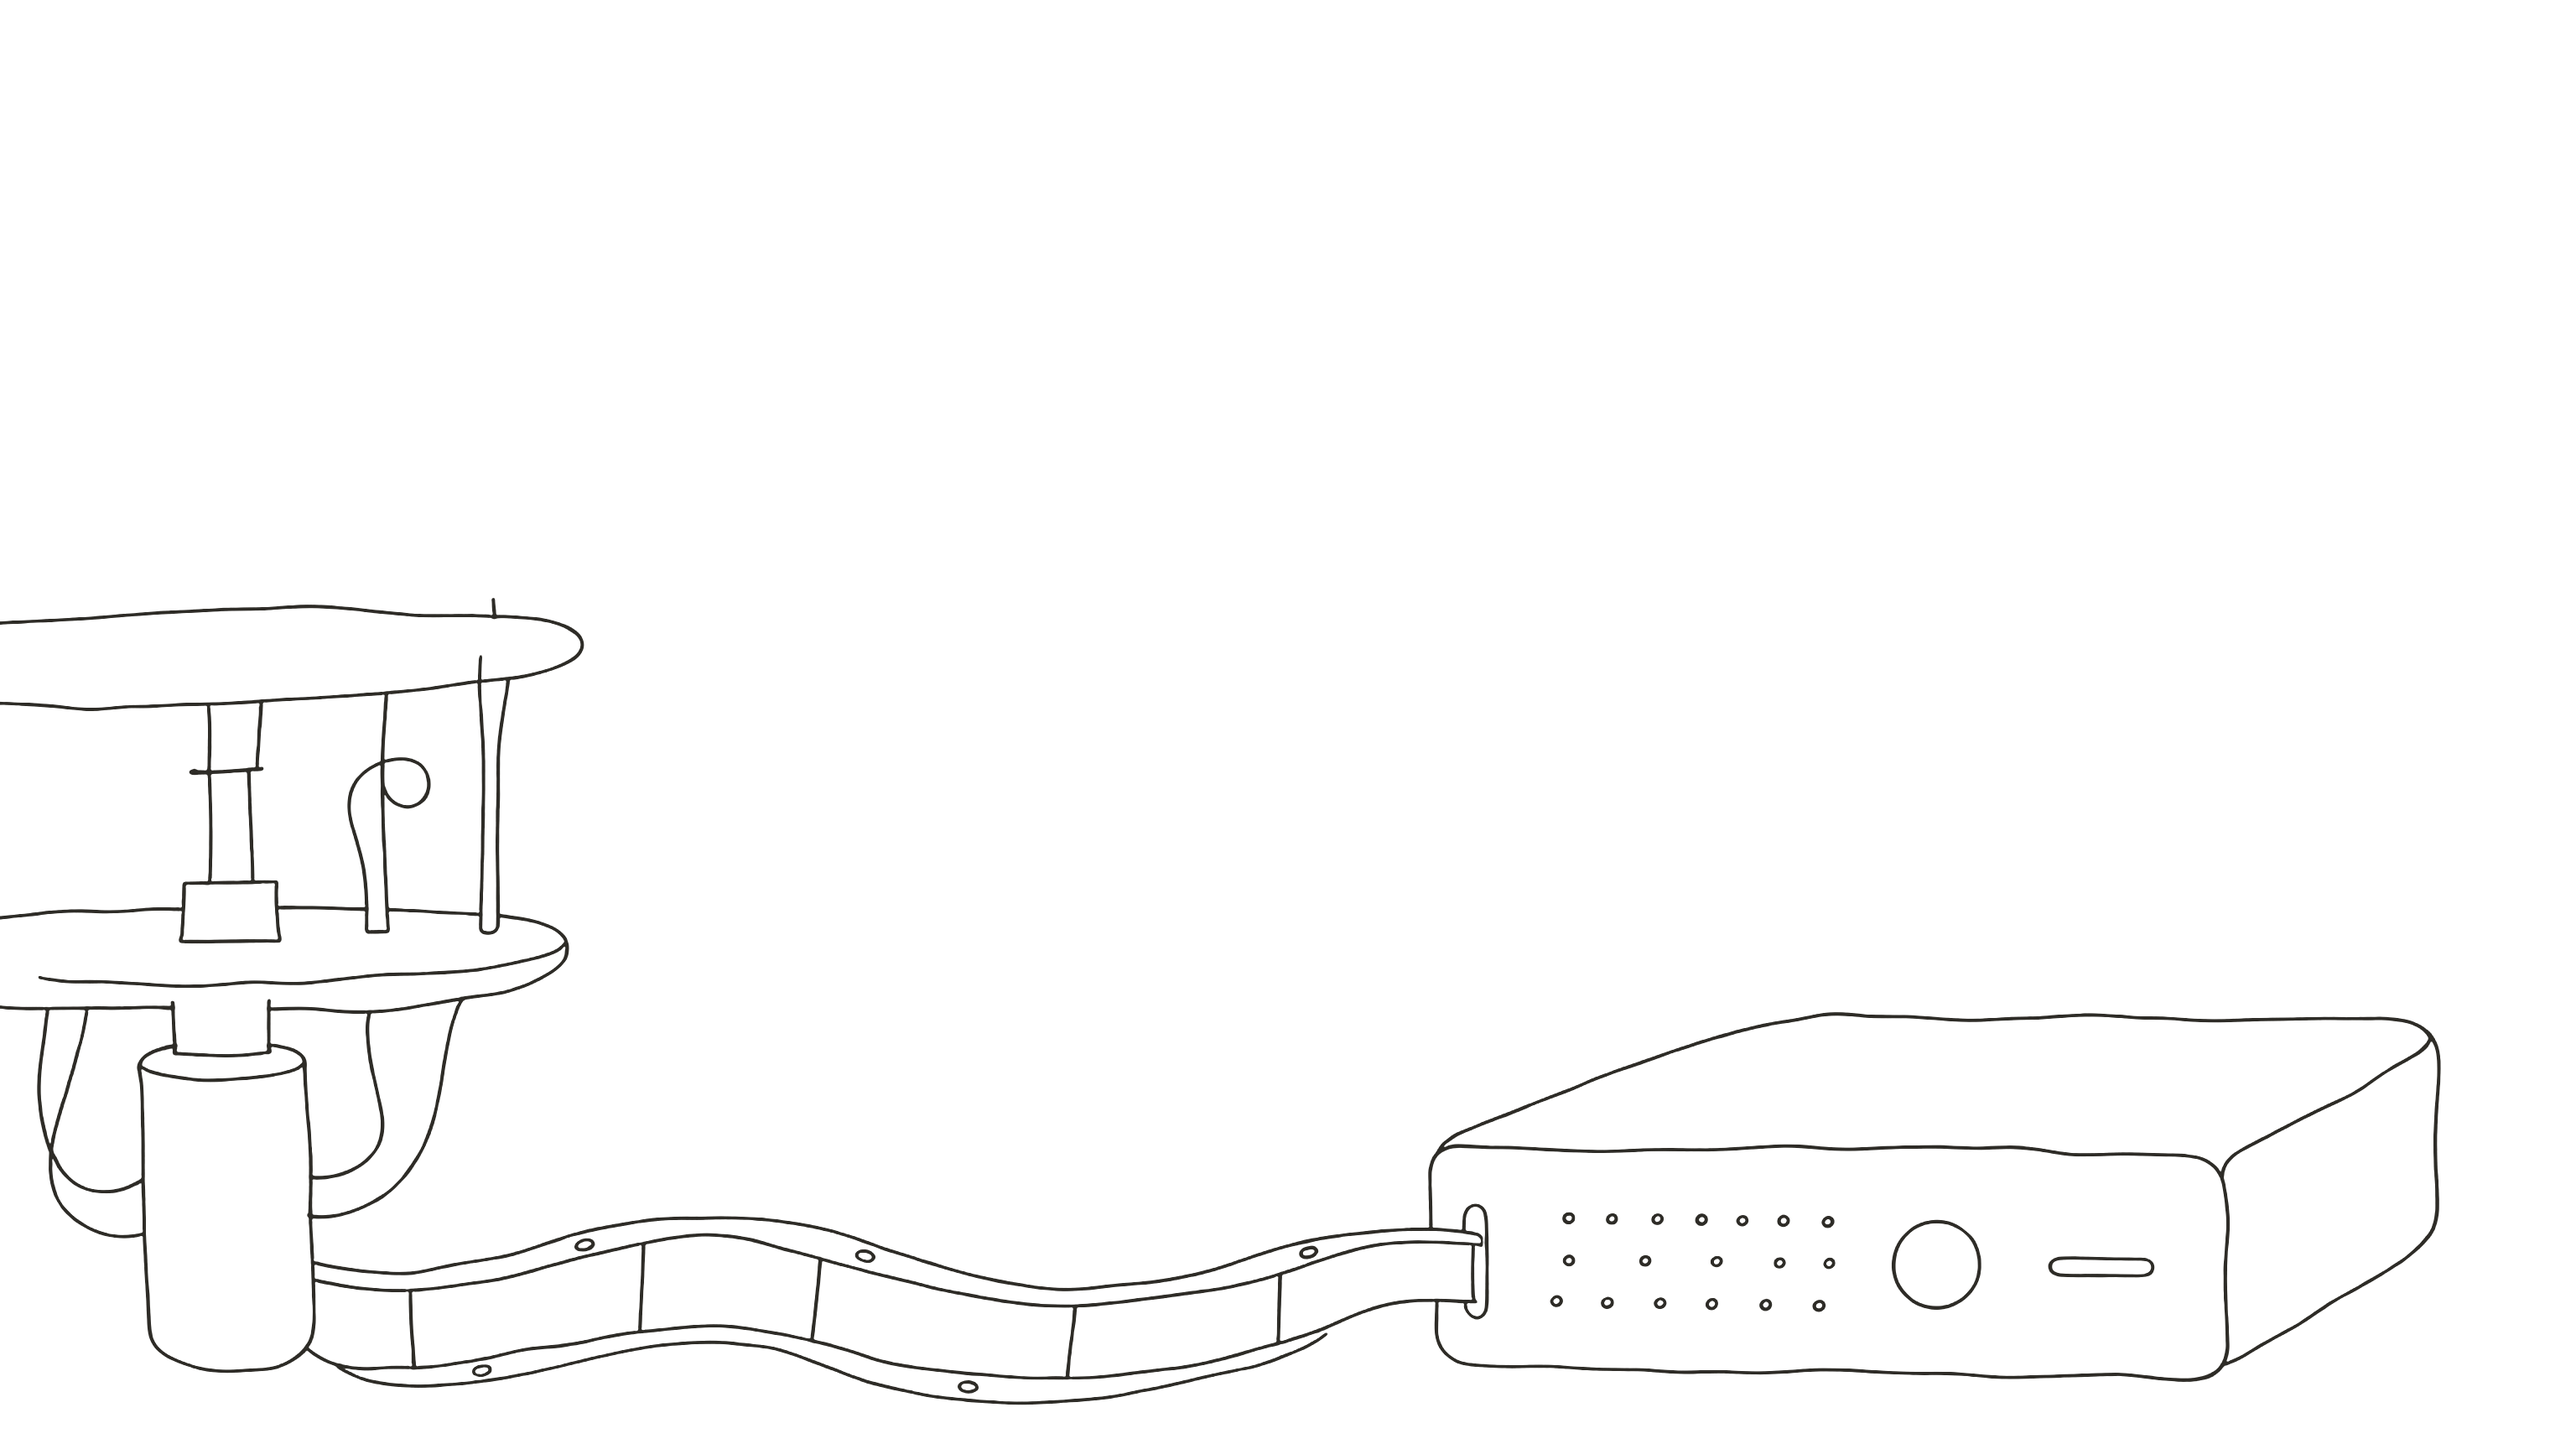
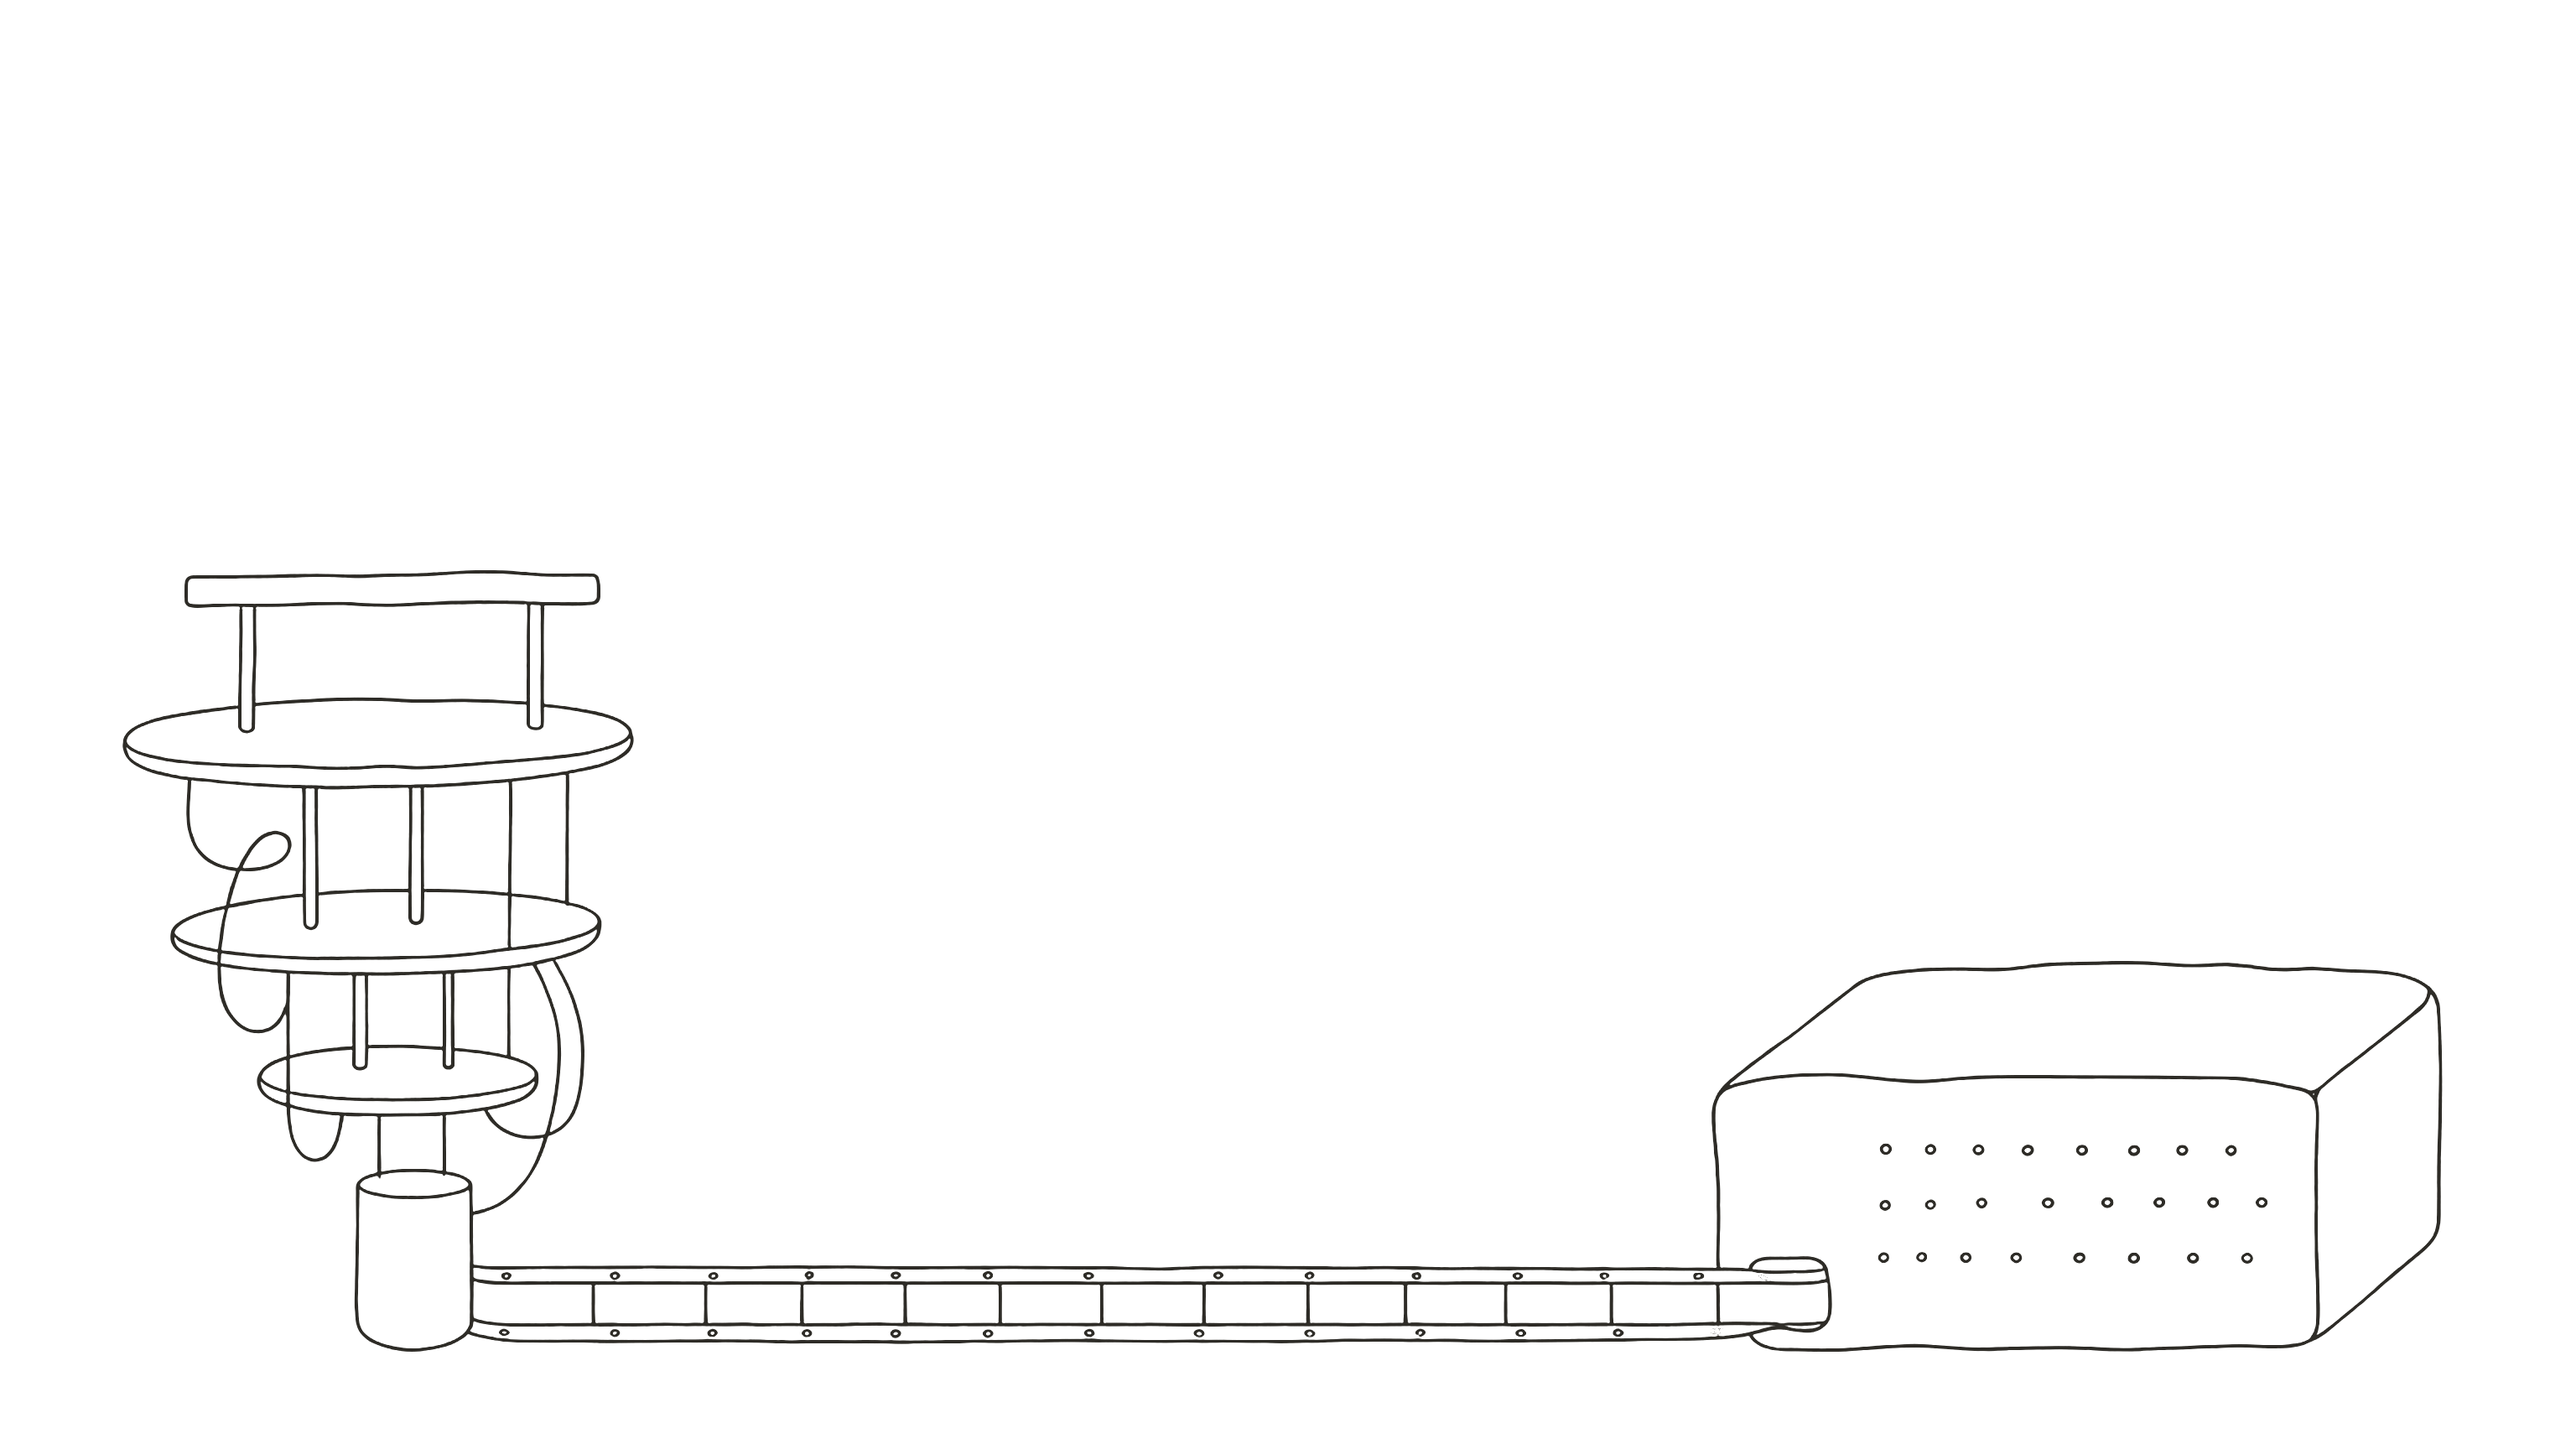
Page 17: a new drawing, page 1's scene resolved, the refrigerator whole

diff --git a/talks/quantum/v6/index.html b/talks/quantum/v6/index.html
@@ -467,18 +467,15 @@ build('p13', 3, (pid, st) => {
   T(svg, 1340, 820, 'the next step', { size: 34, family: 'sans', weight: 600, fill: BLUE });
 }
 
-// ---------------- 17: the reading (drawing, framed, not cut)
+// ---------------- 17: the reading (page 1's scene, resolved: the film runs into the reader)
 {
   const svg = slide('p16', null, 17, '', null);
-  const cp = F.h('clipPath', { id: 'win17' }, svg);
-  F.h('rect', { x: 80, y: 260, width: 1760, height: 660, rx: 12 }, cp);
-  F.h('image', { href: 'read.png', x: 80, y: -50, width: 1760, height: 990, 'clip-path': 'url(#win17)' }, svg);
-  rect(svg, 80, 260, 1760, 660, { rx: 12, fill: 'none', stroke: INK, 'stroke-width': 3 });
+  F.h('image', { href: 'read.png', x: 80, y: -16, width: 1760, height: 990 }, svg);
   T(svg, 80, 140, 'Half of a quantum computer is an ordinary one, reading', { size: 68, weight: TW, family: 'serif' });
   T(svg, 80, 214, 'Reading every frame accurately and in time is still being built.', SUB);
-  penRing(svg, 1400, 750, 420, 145, { stroke: BLUE, width: PEN + 1, seed: 7, start: 0.4 });
-  path(svg, 'M1400 618 Q1385 540 1350 472', { stroke: BLUE, 'stroke-width': PEN, 'stroke-linecap': 'round', fill: 'none', 'stroke-dasharray': '10 8' });
-  T(svg, 1040, 400, 'one answer', { size: 44, hand: true, fill: BLUE }); T(svg, 1040, 450, 'per round, in time', { size: 44, hand: true, fill: BLUE });
+  penRing(svg, 1500, 768, 330, 165, { stroke: BLUE, width: PEN + 1, seed: 7, start: 0.4 });
+  path(svg, 'M1440 606 Q1425 545 1350 512', { stroke: BLUE, 'stroke-width': PEN, 'stroke-linecap': 'round', fill: 'none', 'stroke-dasharray': '10 8' });
+  T(svg, 920, 450, 'one answer', { size: 44, hand: true, fill: BLUE }); T(svg, 920, 500, 'per round, in time', { size: 44, hand: true, fill: BLUE });
 }
 
 // ---------------- 18: the question (bookend of page 1)

diff --git a/talks/quantum/v6/README.md b/talks/quantum/v6/README.md
@@ -22,7 +22,8 @@ pilot.html   the pilot: pages 1, 4, 8 and 14 in two colour systems (?v=A, ?v=B)
 player.html  the player the build pours the pages into (the Renovate talk's player)
 notes.md     what is said on each page, and the field's word for it, said once
 heap.png     the drawing on pages 1, 10 and 18
-read.png     the drawing on page 17
+read.png     the drawing on page 17 (new in v6: page 1's scene resolved)
+raw/         read.png as the forge made it
 ```
 
 ## Look, present, publish
@@ -33,4 +34,6 @@ read.png     the drawing on page 17
 
 ## The drawings
 
-The same files as v5, cleaned for 4K (see `talks/quantum/v5/README.md` for their sources and credits).
+`heap.png` is v5's, cleaned for 4K (see `talks/quantum/v5/README.md` for its sources and credits).
+
+`read.png` is new: Paper Studio forge, board `talk-read2`, round 1, candidate 2. References: v5's `heap.png` as the forge made it (so the refrigerator and film are the same as on page 1); the companion deck's approved line; the article's film-and-cable drawing, for the computer. Cleaned with `python tools/clean-drawing.py raw/read.png read.png`. It replaces v5's page-17 drawing, whose refrigerator was cut off by the edge.
